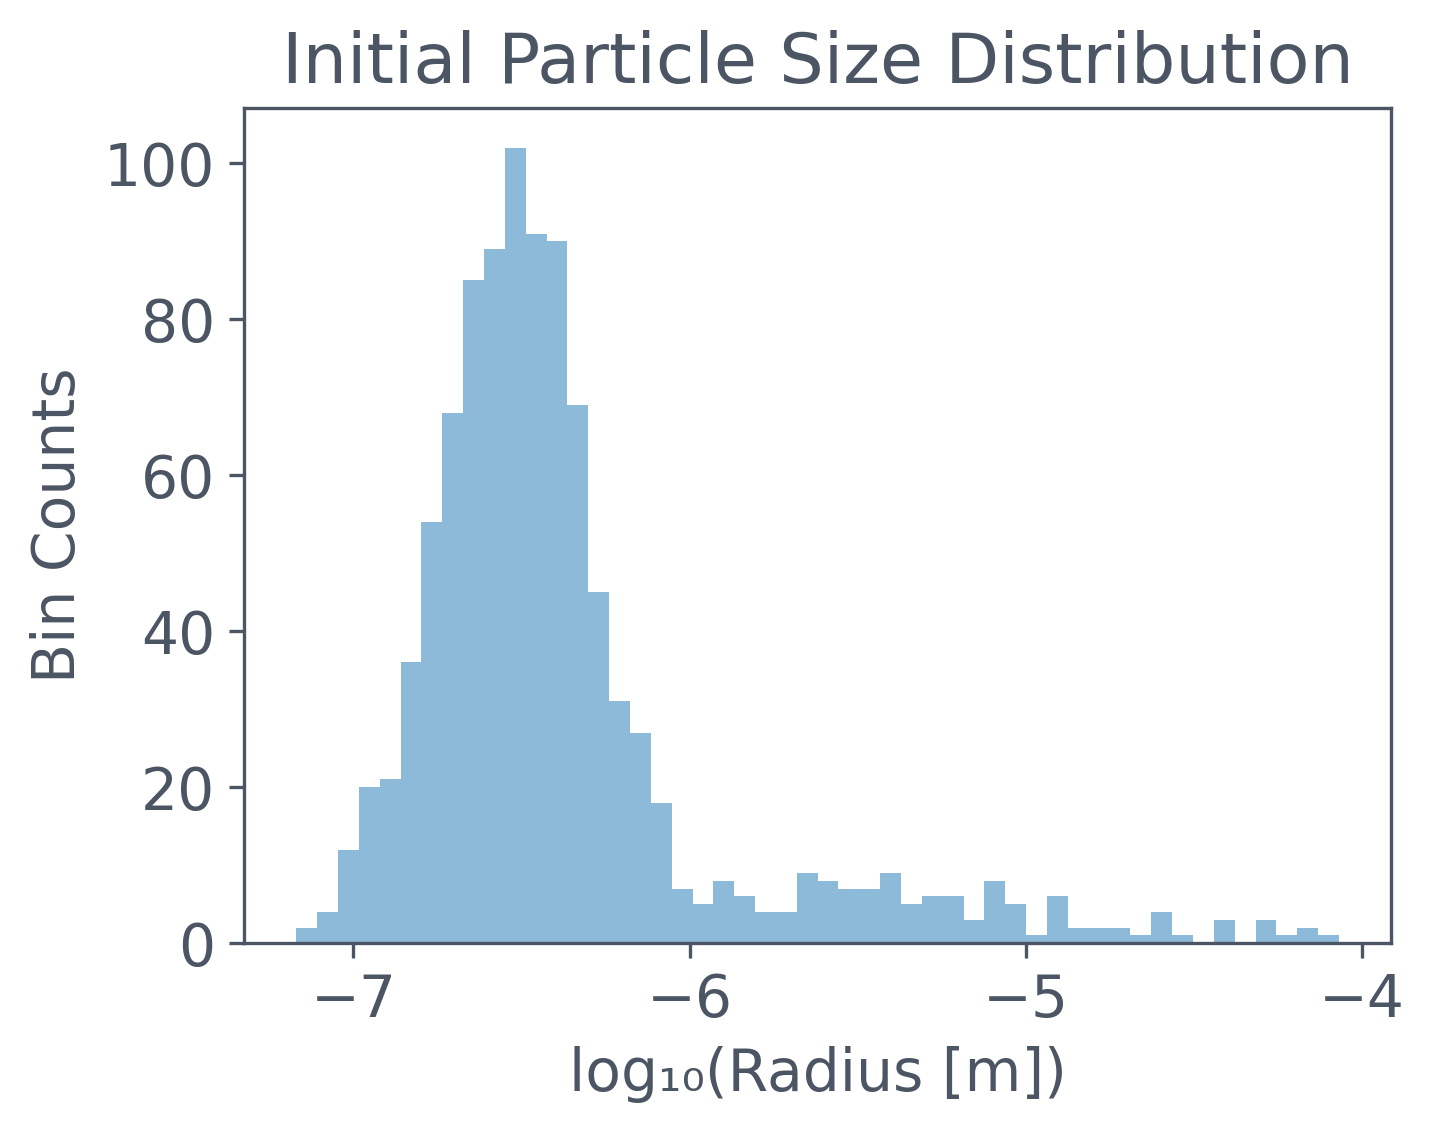
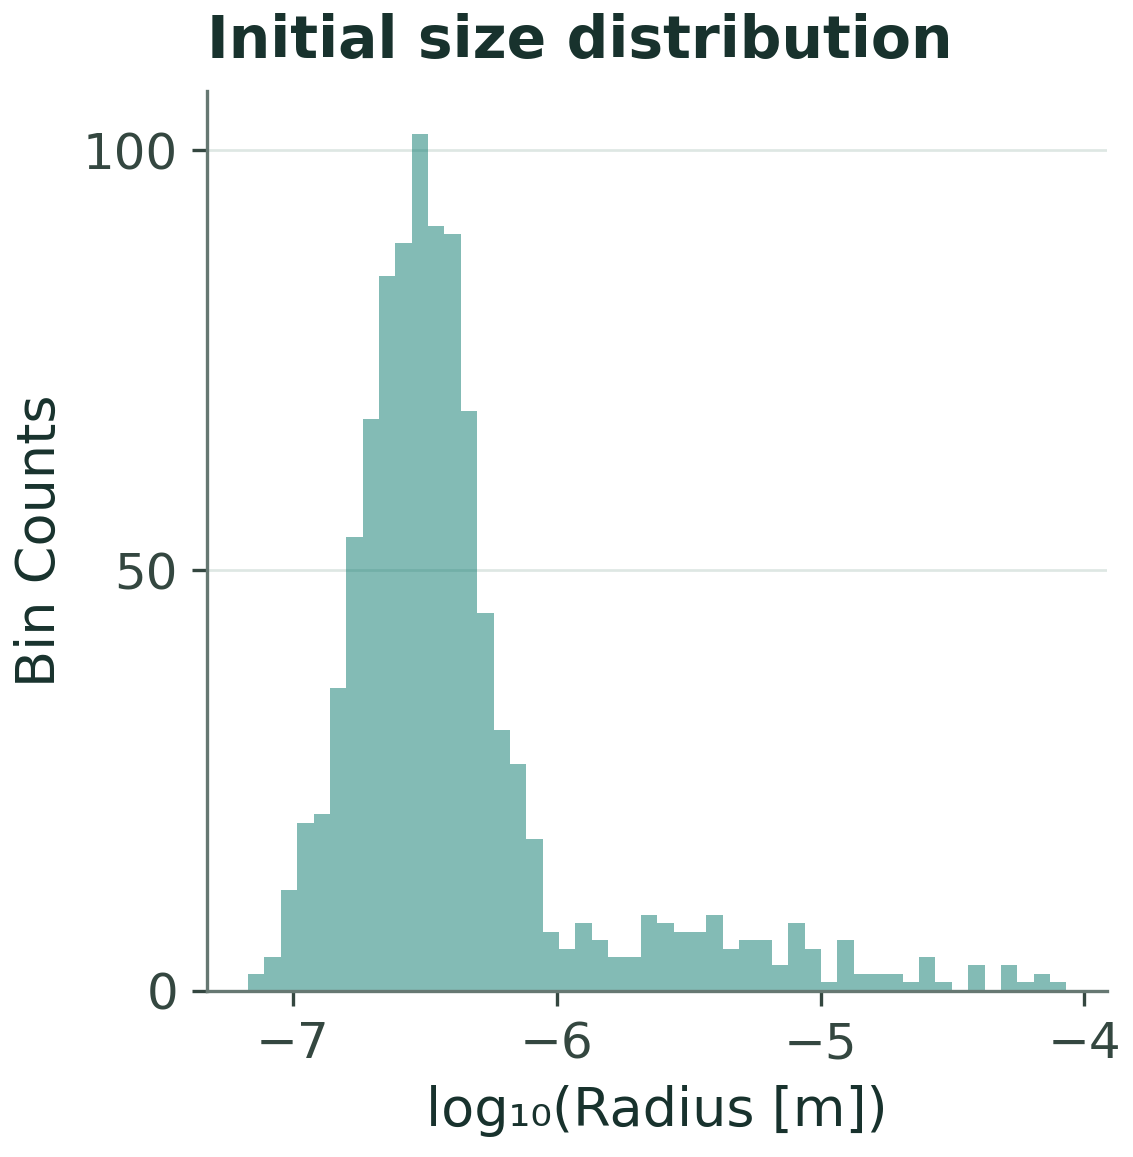
docs(figures): publish final native droplet partitioning panels

Changed region(s): [[0.0618, 0.0, 0.9885, 0.9885], [0.0, 0.3089, 0.0618, 0.6178], [0.9576, 0.4634, 0.9885, 0.4943]]

diff --git a/website/results/examples-simulations-cough-droplets-partitioning/source.py b/website/results/examples-simulations-cough-droplets-partitioning/source.py
@@ -43,6 +43,7 @@ import copy  # to safely duplicate Python objects
 import matplotlib.pyplot as plt  # for plotting
 import numpy as np  # numerical tools
 import particula as par  # the main Particula package
+from particula import plotting
 from particula.dynamics.condensation.species_mapping import (
     CondensationSpeciesMap,
 )
@@ -51,23 +52,10 @@ from particula.execution.gpu_resident_condensation import (
 )
 from tqdm import tqdm  # optional: for progress bars during simulation
 
+plt.style.use("particula.default")
+
 # 🎨 Set default plot styling using Tailwind-inspired colors from Particula
 TAILWIND = par.util.colors.TAILWIND
-base_color = TAILWIND["gray"]["600"]
-
-plt.rcParams.update(
-    {
-        "text.color": base_color,
-        "axes.labelcolor": base_color,
-        "figure.figsize": (5, 4),
-        "font.size": 14,
-        "axes.edgecolor": base_color,
-        "xtick.color": base_color,
-        "ytick.color": base_color,
-        "pdf.fonttype": 42,
-        "ps.fonttype": 42,
-    }
-)
 
 
 # %% [markdown]
@@ -339,7 +327,7 @@ print("Gas species:", ", ".join(aerosol.gas.name))
 
 # %% Step 4: Plot initial particle size distribution
 
-fig, ax = plt.subplots()
+fig, ax = plotting.subplots()
 
 # Log-scale histogram of particle radii
 ax.hist(
@@ -351,8 +339,9 @@ ax.hist(
 
 ax.set_xlabel("log₁₀(Radius [m])")
 ax.set_ylabel("Bin Counts")
-ax.set_title("Initial Particle Size Distribution")
-plt.tight_layout()
+ax.set_title("Initial size distribution")
+ax.locator_params(nbins=4)
+plotting.fit(fig)
 plt.show()
 
 # %% [markdown]
@@ -505,7 +494,7 @@ print("Adaptive condensation work:", simulation.statistics)
 
 # %% Step 7: Plot initial vs final size distributions
 
-fig, ax = plt.subplots(figsize=(7, 5))
+fig, ax = plotting.subplots(size="wide")
 
 # Get radii before and after simulation
 initial_distribution = aerosol.particles.radii[0].copy()
@@ -541,8 +530,8 @@ ax.plot(
 ax.set_xscale("log")
 ax.set_xlabel("Particle Radius (m)")
 ax.set_ylabel("Concentration (#/m⁻³)")
-ax.legend()
-plt.tight_layout()
+plotting.legend(ax)
+plotting.fit(fig)
 plt.show()
 
 # %% [markdown]
@@ -560,7 +549,7 @@ plt.show()
 
 # %% Step 8: Plot water vapor saturation ratio over time
 
-fig, ax = plt.subplots(figsize=(7, 5))
+fig, ax = plotting.subplots(size="wide")
 
 # Plot water vapor saturation ratio (species index 0)
 ax.plot(
@@ -574,9 +563,9 @@ ax.set_ylim(bottom=0.3)
 ax.set_xlabel("Time (s)")
 ax.set_ylabel("Vapor Saturation Ratio")
 ax.set_title("Vapor Saturation Ratio for Water Over Time")
-ax.legend()
+plotting.legend(ax)
 
-plt.tight_layout()
+plotting.fit(fig)
 plt.show()
 
 # %% [markdown]
@@ -614,7 +603,7 @@ color_list = [
 ]
 
 # Create stackplot of species mass fraction
-fig, ax = plt.subplots(figsize=(8, 5))
+fig, ax = plotting.subplots(size="wide")
 ax.stackplot(
     time_array,
     mass_fraction.T,  # Each row = one species
@@ -627,13 +616,8 @@ ax.set_xlabel("Time (s)")
 ax.set_ylabel("Mean Mass Fraction in Particles")
 ax.set_ylim(0, 1)
 ax.grid(True)
-ax.legend(
-    title="Species",
-    loc="lower left",
-    framealpha=0.9,
-    fontsize=10,
-)
-plt.tight_layout()
+plotting.legend(ax, title="Species", loc="lower left", framealpha=0.9)
+plotting.fit(fig)
 plt.show()
 
 # %% [markdown]
@@ -650,7 +634,7 @@ plt.show()
 
 # %% Step 10: Contour plot of particle size distribution over time
 
-fig, ax = plt.subplots(figsize=(7, 5))
+fig, ax = plotting.subplots(size="wide")
 
 # Create 2D mesh grid for time and particle radius
 X, Y = np.meshgrid(time_array, edges[:-1])
@@ -663,7 +647,8 @@ log_conc = np.log10(
 )
 
 # Contour plot of log concentration
-cont = ax.contourf(X, Y, log_conc.T)
+ax.grid(False)
+cont = ax.contourf(X, Y, log_conc.T, cmap=plotting.colormap("magnitude"))
 
 # Axis settings
 ax.set_yscale("log")
@@ -673,7 +658,7 @@ ax.set_ylabel("Particle Radius (m)")
 
 # Add colorbar
 fig.colorbar(cont, label="Log₁₀ Number Concentration")
-plt.tight_layout()
+plotting.fit(fig)
 plt.show()
 
 # %% [markdown]
